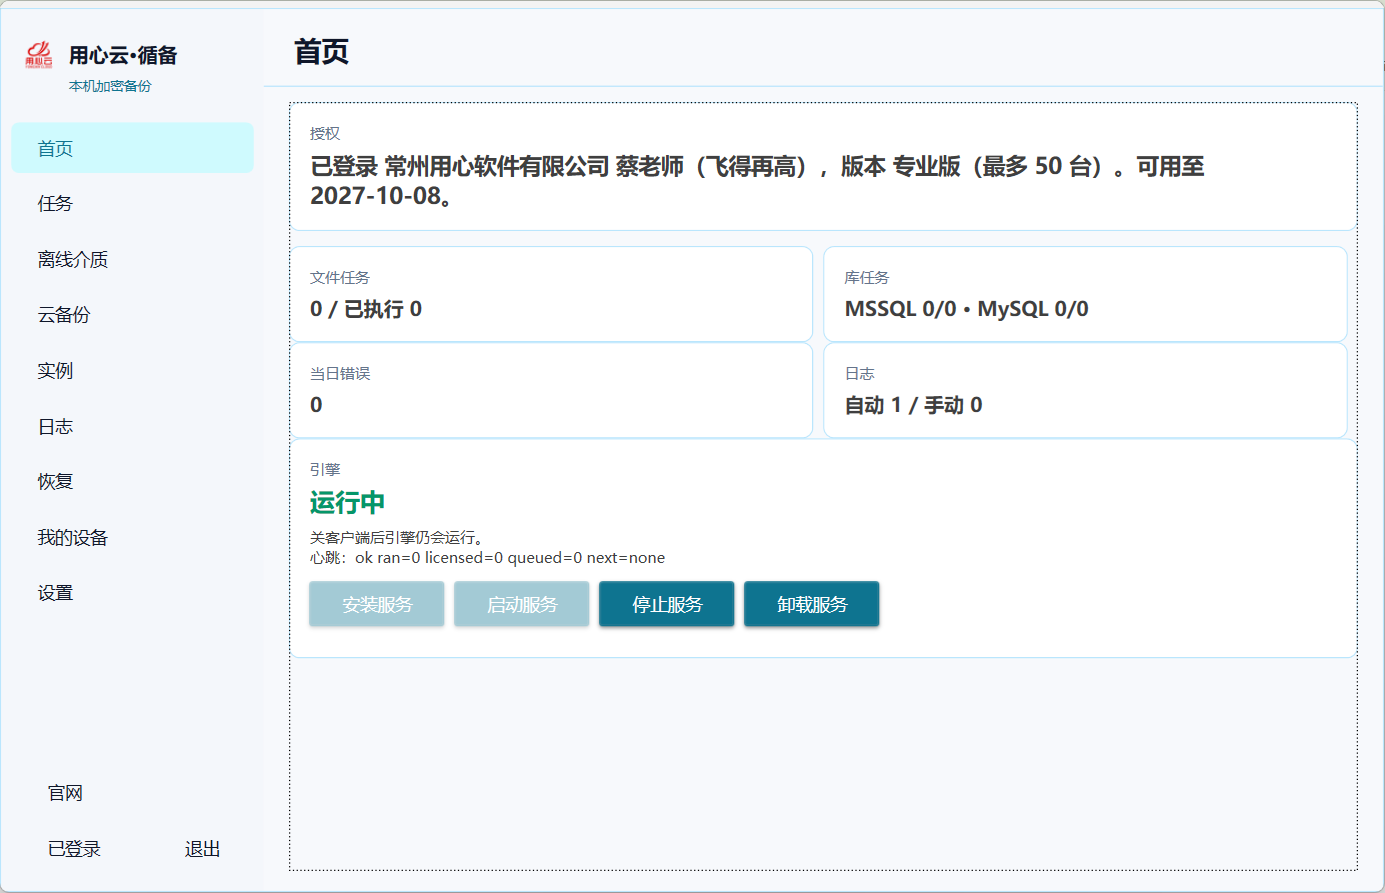
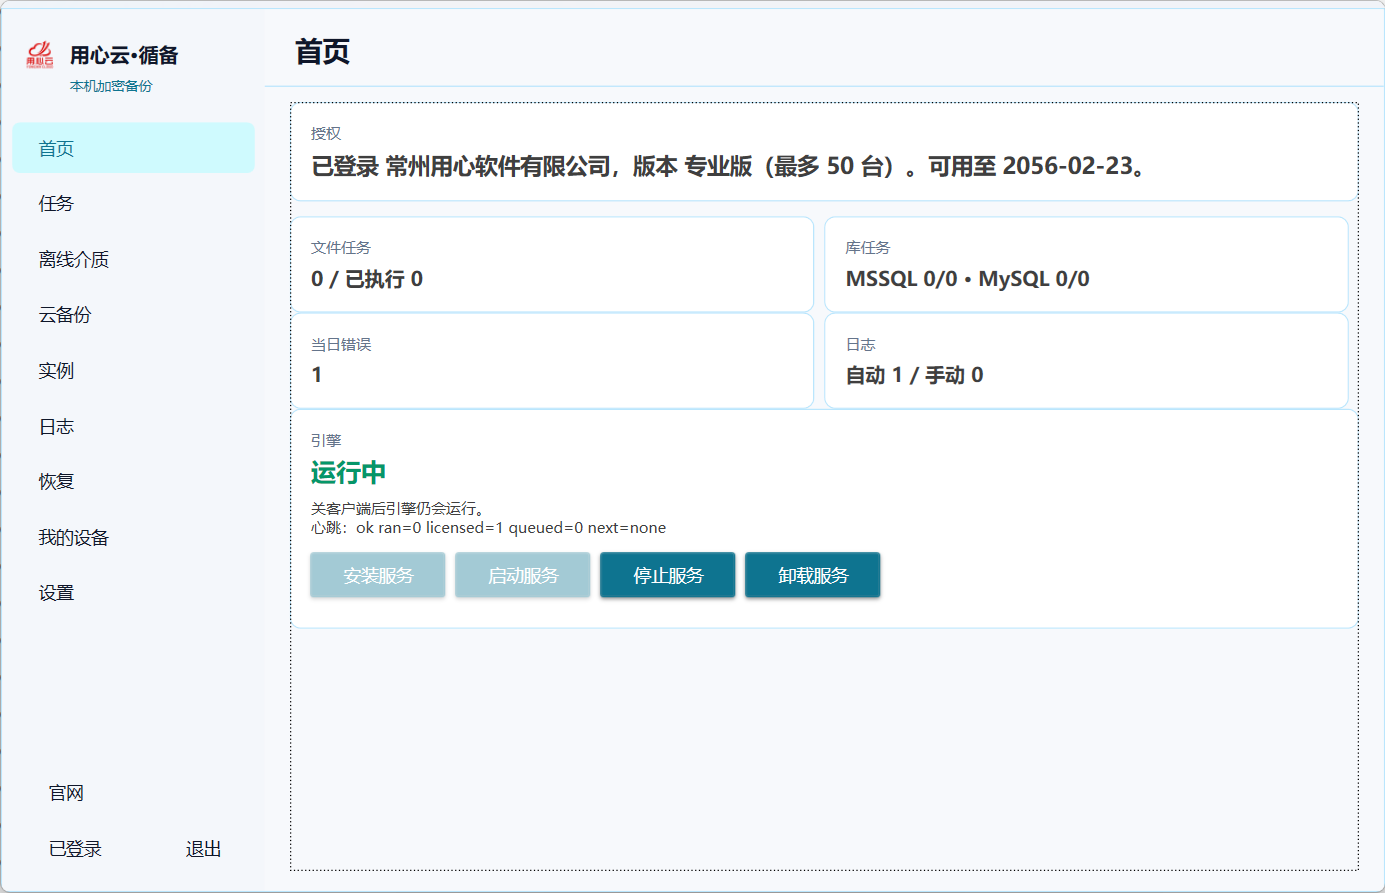
chore: keep the remaining doc and product image changes
Remove the 2026-10-16 server update note, adjust the plan's mail placeholder list, and update the product image.

diff --git a/Doc/用心云·循备-开发计划.md b/Doc/用心云·循备-开发计划.md
@@ -168,7 +168,7 @@ gantt
 
 1. 左侧「云备份」页：服务商列表。七牛云可保存/测试/脱敏回显；百度网盘浏览器授权（可扫码）；腾讯云、天翼云禁用并提示后续开通。
 2. `ICloudStorage` + 七牛实现；另两个适配器占位。
-3. 设置 EMAIL：SMTP、收件、测试发送；邮件标题、内容、结尾可设置，支持 `{任务}` `{结果}` `{时间}` `{详情}` `{客户标识}`。SMTP 配好后总开关「任务执行后发送邮件」加失败/成功/所有；任务须勾完成后发邮件。
+3. 设置 EMAIL：SMTP、收件、测试发送；邮件标题、内容、结尾可设置，支持 `{任务}` `{结果}` `{时间}` `{详情}`。SMTP 配好后总开关「任务执行后发送邮件」加失败/成功/所有；任务须勾完成后发邮件。
 4. 文件/MSSQL 任务勾选「云上传」并选服务商；失败则任务失败且不立即删本地。文件任务与库任务均可立即执行。
 5. 立即删本次：默认关；勾选提示离线可能拷不到；网络/FTP/云/邮件（已启用的）全成功才删当次本机包。
 6. 自动删除：每天定时；本机按天删 bak；七牛按天删本产品对象，每个对象删除调用成功写一条日志；不删盘、不删任务。
